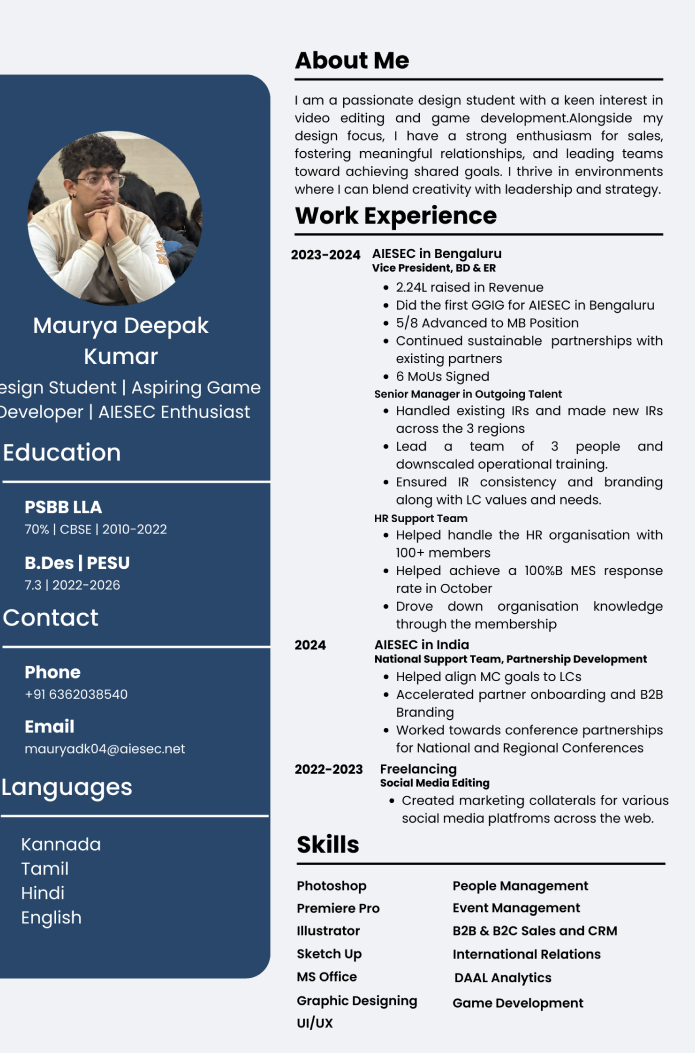
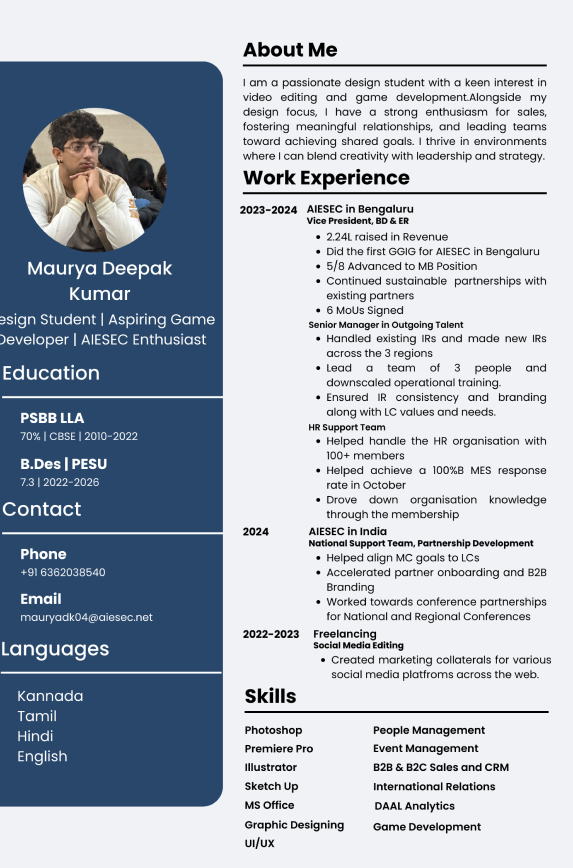
aboutme completed
vfsdnjkn

diff --git a/About Me/index.html b/About Me/index.html
@@ -49,33 +49,38 @@
         that resonate with diverse audiences.&quot;
       </div>
       <div class="button-primary">
-        <div class="text2">Resume</div>
+        <a href="../Resume/index.html"><div class="text2">Resume</div></a>
       </div>
     </div>
     <div class="header">
       <div class="maurya-deepak-kumar">Maurya Deepak Kumar</div>
       <div class="nav">
-        <div class="tab-active">
-          <div class="sobre">About</div>
-          <div class="rectangle-11"></div>
-        </div>
-        <div class="tab-default">
-          <div class="sobre">Projects</div>
-        </div>
-        <div class="tab-default">
-          <div class="sobre">Contacts</div>
-        </div>
+        <a href="index.html">
+          <div class="tab-default">
+            <div class="sobre">About</div>
+          </div>
+        </a>
+        <a href="../Projects/index.html">
+          <div class="tab-default">
+            <div class="sobre">Projects</div>
+          </div>
+        </a>
+        <a href="../Contact/index.html">
+          <div class="tab-default">
+            <div class="sobre">Contacts</div>
+          </div>
+        </a>
       </div>
       <img class="vector-1" src="vector-10.svg" />
     </div>
     <div class="footer-icons">
       <div class="icons">
-        <img class="ph-instagram-logo-fill" src="ph-instagram-logo-fill0.svg" />
+        <a href="https://www.instagram.com/maurya.dk_/"><img class="ph-instagram-logo-fill" src="ph-instagram-logo-fill0.svg" /></a>
         <div class="bi-linkedin">
-          <img class="group" src="group0.svg" />
+          <a href="https://www.linkedin.com/in/maurya-deepak1/"><img class="group" src="group0.svg" /></a>
         </div>
         <div class="bi-envelope-fill">
-          <img class="group2" src="group1.svg" />
+          <a href="maito:mauryadk04@gmail.com"><img class="group2" src="group1.svg" /></a>
         </div>
       </div>
       <div class="maurya-deepak-kumar-2024">Maurya Deepak Kumar 2024</div>

diff --git a/About Me/style.css b/About Me/style.css
@@ -4,7 +4,7 @@
 }
 .about-simple-footer {
   background: rgba(240, 242, 245, 0.39);
-  height: 944px;
+  height: 1080px;
   position: relative;
   overflow: hidden;
 }
@@ -16,7 +16,7 @@
   justify-content: flex-start;
   width: 588px;
   position: absolute;
-  left: 820px;
+  left: 1100px;
   top: 199px;
 }
 .title {
@@ -141,7 +141,7 @@
   justify-content: center;
   position: absolute;
   left: calc(50% - 103.5px);
-  top: 762px;
+  top: 883px;
 }
 .icons {
   display: flex;
@@ -211,7 +211,7 @@
   width: 524px;
   height: 524px;
   position: absolute;
-  right: 808px;
+  right: 1048px;
   top: 167px;
 }
 .pexels-artem-beliaikin-1832323-removebg-preview {
@@ -219,15 +219,15 @@
   width: 524px;
   height: 524px;
   position: absolute;
-  right: 808px;
+  right: 1048px;
   top: 167px;
   object-fit: cover;
 }
 .vector-2 {
-  width: 1444px;
+  width: 2020px;
   height: 0px;
   position: absolute;
-  left: -1.5px;
-  top: 891px;
+  left: -1px;
+  top: 1014px;
   overflow: visible;
 }

diff --git a/Resume/style.css b/Resume/style.css
@@ -4,7 +4,7 @@
 }
 .resume {
   background: #eaeaec;
-  height: 1414px;
+  height: 1080px;
   position: relative;
   overflow: hidden;
 }
@@ -58,11 +58,11 @@
   overflow: visible;
 }
 .maurya-deepak-kumar-1-1 {
-  width: 695px;
-  height: 1053px;
+  width: 573px;
+  height: 868px;
   position: absolute;
-  left: 384px;
-  top: 164px;
+  left: 354px;
+  top: 187px;
   object-fit: cover;
 }
 .header {
@@ -205,4 +205,16 @@
   font-size: 16px;
   font-weight: 400;
   position: relative;
+}
+.title2 {
+  color: var(--font-high-emphasis, #25282b);
+  text-align: center;
+  font-family: "PlayfairDisplay-ExtraBold", sans-serif;
+  font-size: 48px;
+  line-height: 72px;
+  font-weight: 800;
+  position: absolute;
+  left: calc(50% - -251px);
+  top: calc(50% - 87px);
+  width: 588px;
 }

diff --git a/Resume/index.html b/Resume/index.html
@@ -74,6 +74,7 @@
       </div>
       <div class="maurya-deepak-kumar-2024">Maurya Deepak Kumar 2024</div>
     </div>
+    <div class="title2">Open to working!</div>
   </div>
   
 </body>

diff --git a/Resume/Resume.html b/Resume/Resume.html
@@ -34,4 +34,5 @@
     </div>
     <div class="maurya-deepak-kumar-2024">Maurya Deepak Kumar 2024</div>
   </div>
+  <div class="title2">Open to working!</div>
 </div>
